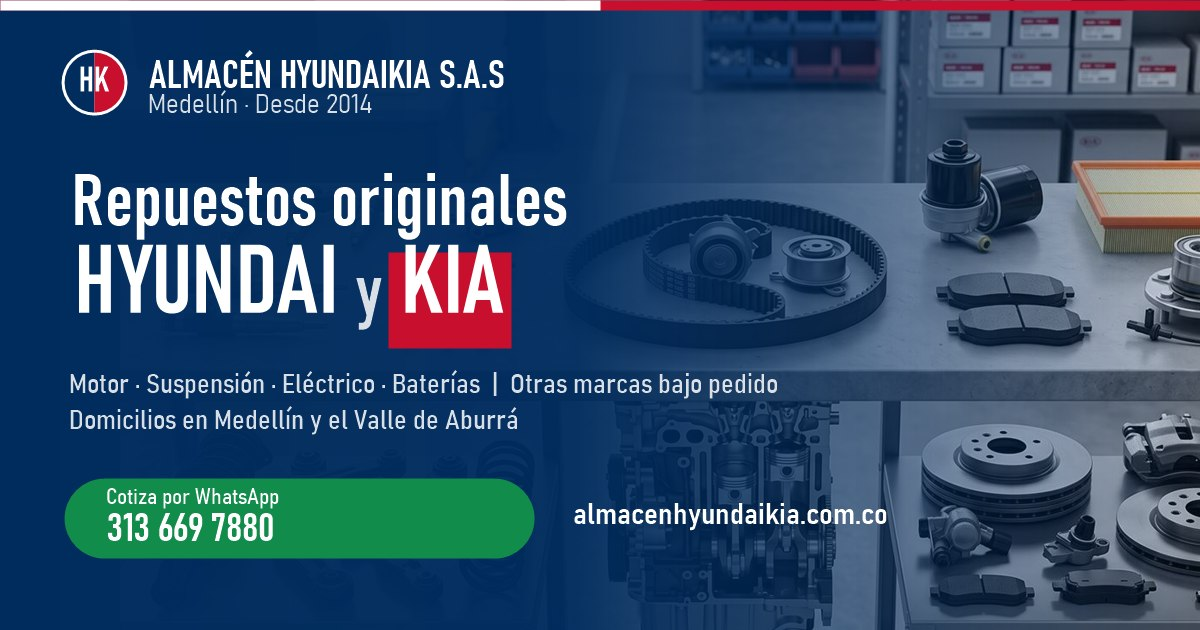
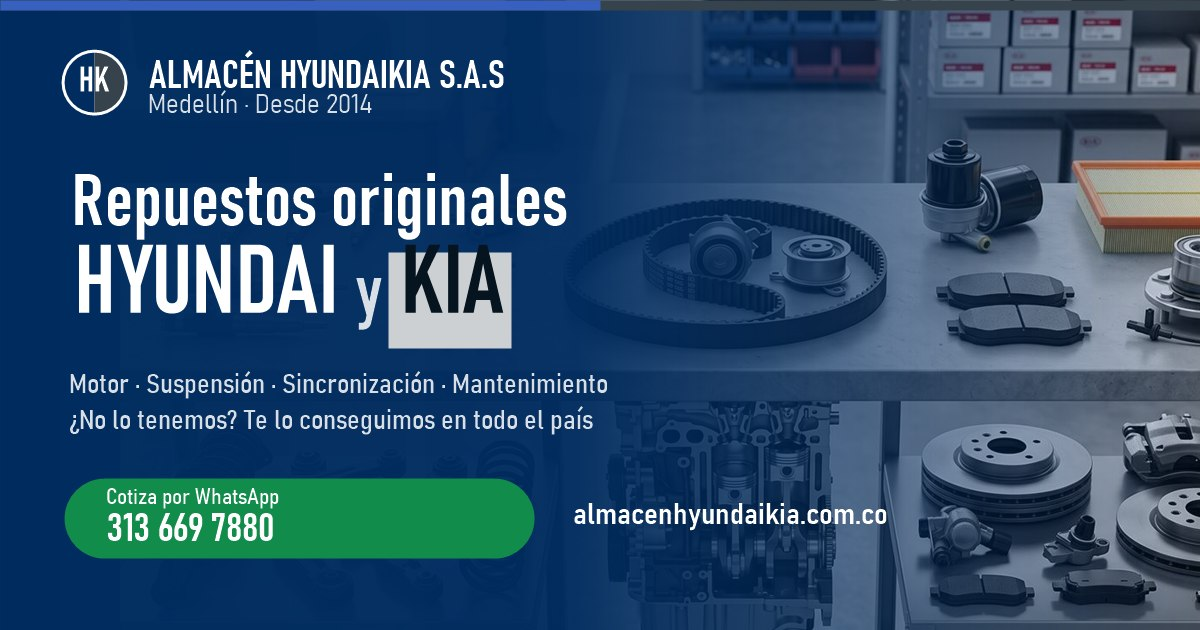
Marca y mensajes: colores oficiales, nivel nacional y crédito CoET
- Colores oficiales: Hyundai Blue #002C5F + azul eléctrico #3860BE; Kia Midnight Black #05141F y grises (#37434C, #CDD0D2) en lugar del rojo
- Portada: Motor, suspensión, sincronización y mantenimiento
- Promesa "¿No lo tenemos? Te lo conseguimos en todo el país" en portada, franja CTA, FAQ (+ schema), description y llms.txt
- Pie de página: sitio desarrollado por CoET S.A.S con enlace a coet.co
- Imagen para redes, favicon e ícono de iPhone con los colores nuevos

Changed region(s): [[0.0617, 0.3921, 0.6475, 0.6937], [0.0, 0.0, 1.0, 0.0302], [0.0617, 0.0905, 0.1233, 0.181]]

diff --git a/index.html b/index.html
@@ -8,10 +8,10 @@
 <meta http-equiv="Content-Security-Policy" content="default-src 'self'; script-src 'self' 'unsafe-inline' 'wasm-unsafe-eval' https://cdn.jsdelivr.net https://www.googletagmanager.com; worker-src 'self' blob: https://cdn.jsdelivr.net; connect-src 'self' blob: data: https://cdn.jsdelivr.net https://*.google-analytics.com https://*.analytics.google.com https://www.googletagmanager.com; img-src 'self' data: blob: https://*.google-analytics.com https://www.googletagmanager.com; style-src 'self' 'unsafe-inline' https://fonts.googleapis.com; font-src https://fonts.gstatic.com; frame-src https://maps.google.com https://www.google.com; object-src 'none'; base-uri 'self'; form-action 'self'; upgrade-insecure-requests">
 <meta name="referrer" content="strict-origin-when-cross-origin">
 <title>Repuestos Hyundai y Kia en Medellín | Almacén HyundaiKia S.A.S</title>
-<meta name="description" content="Repuestos originales Hyundai y Kia en Medellín (y otras marcas): kits de sincronización, correas, bujías, amortiguadores, bocinas, luces, exploradoras, espejos y baterías. Av. Palacé, La Candelaria. Domicilios. Cotiza por WhatsApp 313 669 7880.">
+<meta name="description" content="Repuestos originales Hyundai y Kia en Medellín (y otras marcas): motor, suspensión, sincronización y mantenimiento. Si no lo tenemos, te lo conseguimos en todo el país. Av. Palacé, La Candelaria. Domicilios. Cotiza por WhatsApp 313 669 7880.">
 <link rel="canonical" href="https://almacenhyundaikia.com.co/">
 <meta name="robots" content="index, follow, max-image-preview:large">
-<meta name="theme-color" content="#002c5e">
+<meta name="theme-color" content="#002c5f">
 <link rel="icon" href="favicon.svg" type="image/svg+xml">
 <link rel="apple-touch-icon" href="img/apple-touch-icon.png">
 
@@ -125,6 +125,7 @@
     { "@type": "Question", "name": "¿Cómo cotizo un repuesto?", "acceptedAnswer": { "@type": "Answer", "text": "Por WhatsApp al 313 669 7880: envíanos la marca, la línea, el año del modelo y, si lo tienes, el VIN o número de chasis de la tarjeta de propiedad. Te confirmamos disponibilidad y precio." } },
     { "@type": "Question", "name": "¿Hacen domicilios?", "acceptedAnswer": { "@type": "Answer", "text": "Sí, despachamos a talleres y casas en Medellín y todo el Valle de Aburrá: Envigado, Itagüí, Sabaneta, Bello, La Estrella y Caldas." } },
     { "@type": "Question", "name": "¿Venden repuestos para otras marcas?", "acceptedAnswer": { "@type": "Answer", "text": "Sí. Nuestra especialidad es Hyundai y Kia, pero conseguimos repuestos para otras marcas. Escríbenos la referencia o el modelo de tu carro." } },
+    { "@type": "Question", "name": "¿Qué pasa si no tienen el repuesto que necesito?", "acceptedAnswer": { "@type": "Answer", "text": "Te lo conseguimos. Con nuestra red de proveedores a nivel nacional buscamos la pieza exacta para tu vehículo y te confirmamos precio y tiempo de entrega por WhatsApp." } },
     { "@type": "Question", "name": "¿Cuál es el horario de atención?", "acceptedAnswer": { "@type": "Answer", "text": "Lunes a viernes de 8:00 a.m. a 6:00 p.m. y sábados de 8:00 a.m. a 2:00 p.m." } }
   ]
 }
@@ -140,10 +141,15 @@
     --border:#e3e7ec;
     --border-strong:#c9d0d9;
 
-    /* Brand accents — Hyundai blue (fabricante) + Kia red (fabricante) */
-    --blue:#002c5e;
+    /* Colores oficiales de las marcas (hyundaicolombia.co / kia.com.co):
+       Hyundai Blue #002C5F y azul eléctrico #3860BE · Kia Midnight Black #05141F y grises #37434C / #CDD0D2 */
+    --blue:#002c5f;
+    --electric:#3860be;
     --blue-soft:#eef2f8;
-    --red:#c8102e;
+    --kia:#05141f;
+    --kia-gray:#37434c;
+    --kia-silver:#cdd0d2;
+    --danger:#c8102e;
     --wa:#25d366;
     --wa-dark:#128c4b;
 
@@ -169,13 +175,13 @@
   svg{ display:block; }
   .wrap{ max-width:1120px; margin:0 auto; padding-inline:clamp(1rem,4vw,2rem); }
   section{ padding-block:clamp(2rem,5vw,3.25rem); }
-  .c-blue{ color:var(--blue); }
-  .c-red{ color:var(--red); }
+  .c-blue{ color:var(--electric); }
+  .c-kia{ color:var(--kia-gray); }
 
   .eyebrow{ display:inline-flex; align-items:center; gap:0.55rem; font-family:"IBM Plex Mono",monospace; font-size:0.72rem; letter-spacing:0.12em; text-transform:uppercase; color:var(--blue); }
   .brand-dash{ display:flex; width:24px; height:4px; border-radius:2px; overflow:hidden; }
-  .brand-dash span{ flex:1; background:var(--blue); }
-  .brand-dash span + span{ background:var(--red); }
+  .brand-dash span{ flex:1; background:var(--electric); }
+  .brand-dash span + span{ background:var(--kia-gray); }
 
   /* ---------- Botones ---------- */
   .btn{ display:inline-flex; align-items:center; justify-content:center; gap:0.5rem; font-family:"Barlow Condensed",sans-serif; font-weight:600; font-size:1.05rem; letter-spacing:0.01em; text-decoration:none; cursor:pointer; border:1px solid transparent; padding:0.72rem 1.3rem; border-radius:6px; transition:background 0.15s ease, border-color 0.15s ease, color 0.15s ease, transform 0.15s ease; white-space:nowrap; }
@@ -231,7 +237,7 @@
   }
 
   /* ---------- Cotizador (en el hero) ---------- */
-  .finder-card{ background:#fff; border:1px solid var(--border); border-top:4px solid var(--red); border-radius:12px; padding:clamp(1.25rem,3vw,1.75rem); box-shadow:var(--shadow); }
+  .finder-card{ background:#fff; border:1px solid var(--border); border-top:4px solid var(--electric); border-radius:12px; padding:clamp(1.25rem,3vw,1.75rem); box-shadow:var(--shadow); }
   .finder-card h2{ font-size:clamp(1.45rem,2.6vw,1.8rem); }
   .finder-card > p{ margin-top:0.35rem; color:var(--text-soft); font-size:0.92rem; }
   .finder-form{ margin-top:1.1rem; display:grid; grid-template-columns:1fr 1fr; gap:0.8rem; }
@@ -255,7 +261,7 @@
   .scan-status{ margin-top:0.55rem; font-size:0.78rem; color:var(--text-soft); text-align:center; }
   .scan-status.is-busy{ color:var(--blue); font-weight:600; }
   .scan-status.is-ok{ color:var(--wa-dark); font-weight:600; }
-  .scan-status.is-error{ color:var(--red); font-weight:600; }
+  .scan-status.is-error{ color:var(--danger); font-weight:600; }
   .scan-progress{ height:4px; margin-top:0.5rem; border-radius:2px; background:var(--border); overflow:hidden; }
   .scan-progress span{ display:block; height:100%; width:0; background:var(--blue); transition:width 0.2s ease; }
 
@@ -329,6 +335,8 @@
   footer .wrap{ display:flex; flex-wrap:wrap; justify-content:space-between; gap:0.5rem 2rem; padding-block:1.4rem; }
   footer a{ color:var(--text-soft); }
   footer strong{ color:var(--text); }
+  footer .credito{ flex-basis:100%; padding-top:0.6rem; border-top:1px solid var(--border); font-size:0.8rem; text-align:center; }
+  footer .credito a{ color:var(--electric); font-weight:600; text-decoration:none; }
 
   /* ---------- Acciones fijas: flotante (escritorio) y barra inferior (móvil) ---------- */
   .wa-float{ position:fixed; right:1.5rem; bottom:1.5rem; z-index:50; display:flex; align-items:center; gap:0.55rem; padding:0.8rem 1.15rem 0.8rem 0.95rem; border-radius:999px; background:var(--wa); color:#fff; text-decoration:none; font-family:"Barlow Condensed",sans-serif; font-weight:600; font-size:1.05rem; box-shadow:0 6px 18px rgba(18,24,31,0.22); transition:transform 0.15s ease; }
@@ -359,8 +367,8 @@
 <header class="site-header">
   <div class="wrap">
     <a class="brand" href="#top" aria-label="Almacén HyundaiKia S.A.S — inicio">
-      <svg class="brand-badge" viewBox="0 0 32 32" aria-hidden="true"><path d="M16 1a15 15 0 0 0 0 30V1Z" fill="var(--blue)"/><path d="M16 1a15 15 0 0 1 0 30V1Z" fill="var(--red)"/><text x="16" y="20.5" text-anchor="middle" font-family="Barlow Condensed, sans-serif" font-size="12" font-weight="700" fill="#fff">HK</text></svg>
-      <span class="brand-name">ALMACÉN <span class="c-blue">HYUNDAI</span><span class="c-red">KIA</span><small>Repuestos originales · Medellín</small></span>
+      <svg class="brand-badge" viewBox="0 0 32 32" aria-hidden="true"><path d="M16 1a15 15 0 0 0 0 30V1Z" fill="var(--blue)"/><path d="M16 1a15 15 0 0 1 0 30V1Z" fill="var(--kia-gray)"/><text x="16" y="20.5" text-anchor="middle" font-family="Barlow Condensed, sans-serif" font-size="12" font-weight="700" fill="#fff">HK</text></svg>
+      <span class="brand-name">ALMACÉN <span class="c-blue">HYUNDAI</span><span class="c-kia">KIA</span><small>Repuestos originales · Medellín</small></span>
     </a>
     <nav class="nav" aria-label="Principal">
       <a class="nav-link" href="#repuestos">Repuestos</a>
@@ -383,8 +391,8 @@
           <img src="img/logo-kia.png" alt="Kia" height="26">
           <span class="plus">+ otras marcas</span>
         </div>
-        <h1>Repuestos originales para tu <span class="c-blue">HYUNDAI</span> y <span class="c-red">KIA</span> en Medellín</h1>
-        <p class="hero-sub">Motor y sincronización, suspensión, eléctrico, iluminación y baterías. Te confirmamos disponibilidad y precio por WhatsApp en minutos, y te lo llevamos a domicilio.</p>
+        <h1>Repuestos originales para tu <span class="c-blue">HYUNDAI</span> y <span class="c-kia">KIA</span> en Medellín</h1>
+        <p class="hero-sub">Motor, suspensión, sincronización y mantenimiento. <strong>¿No lo tenemos en el almacén? Te lo conseguimos en todo el país.</strong> Cotiza por WhatsApp en minutos y te lo llevamos a domicilio.</p>
         <div class="hero-actions">
           <a class="btn btn-wa" href="https://wa.me/573136697880?text=Hola%2C%20quiero%20cotizar%20un%20repuesto" target="_blank" rel="noopener" data-wa="hero">
             <svg viewBox="0 0 24 24" fill="currentColor" aria-hidden="true"><use href="#i-wa"/></svg>
@@ -399,6 +407,7 @@
           <li><a href="https://www.google.com/maps?cid=13270207349620666020" target="_blank" rel="noopener"><span class="stars">★★★★★</span> 4,5 en Google</a></li>
           <li><svg viewBox="0 0 24 24" fill="none" stroke="currentColor" stroke-width="2" stroke-linecap="round" stroke-linejoin="round" aria-hidden="true"><use href="#i-shield"/></svg> Más de 12 años</li>
           <li><svg viewBox="0 0 24 24" fill="none" stroke="currentColor" stroke-width="2" stroke-linecap="round" stroke-linejoin="round" aria-hidden="true"><use href="#i-truck"/></svg> Domicilios Valle de Aburrá</li>
+          <li><svg viewBox="0 0 24 24" fill="none" stroke="currentColor" stroke-width="2" stroke-linecap="round" stroke-linejoin="round" aria-hidden="true"><circle cx="11" cy="11" r="7"/><path d="m20 20-3.5-3.5"/></svg> Lo conseguimos en todo Colombia</li>
         </ul>
       </div>
 
@@ -575,7 +584,7 @@
   <section class="trust-band">
     <div class="wrap">
       <div class="years">
-        <b>12<span class="c-red" style="font:inherit">+</span></b>
+        <b>12<span style="font:inherit;color:var(--kia-silver)">+</span></b>
         <span>Años de experiencia<small>Desde el 10 de enero de 2014</small></span>
       </div>
       <ul class="adv">
@@ -590,13 +599,13 @@
   <section class="cta-strip">
     <div class="wrap">
       <div>
-        <h2>¿Tu carro es de otra marca o no ves tu repuesto?</h2>
-        <p>Envíanos la referencia, la marca y el modelo. Te lo conseguimos.</p>
+        <h2>¿No tenemos tu repuesto? Te lo conseguimos en todo el país</h2>
+        <p>Con nuestra red de proveedores a nivel nacional buscamos la pieza exacta para tu Hyundai, Kia o carro de otra marca. Envíanos la referencia, la marca y el modelo.</p>
       </div>
       <div class="actions">
-        <a class="btn btn-wa" href="https://wa.me/573136697880?text=Hola%2C%20necesito%20un%20repuesto%20para%20un%20carro%20de%20otra%20marca" target="_blank" rel="noopener" data-wa="otra-marca">
+        <a class="btn btn-wa" href="https://wa.me/573136697880?text=Hola%2C%20necesito%20que%20me%20ayuden%20a%20conseguir%20un%20repuesto" target="_blank" rel="noopener" data-wa="conseguir-repuesto">
           <svg viewBox="0 0 24 24" fill="currentColor" aria-hidden="true"><use href="#i-wa"/></svg>
-          Escribir por WhatsApp
+          Buscar mi repuesto
         </a>
         <a class="btn btn-outline" href="tel:+576044441961">Llamar al PBX</a>
       </div>
@@ -679,6 +688,10 @@
           <p>Sí. Nuestra especialidad es Hyundai y Kia, pero conseguimos repuestos para otras marcas. Escríbenos la referencia o el modelo de tu carro.</p>
         </details>
         <details>
+          <summary>¿Qué pasa si no tienen el repuesto que necesito?</summary>
+          <p>Te lo conseguimos. Con nuestra red de proveedores a nivel nacional buscamos la pieza exacta para tu vehículo y te confirmamos precio y tiempo de entrega por WhatsApp.</p>
+        </details>
+        <details>
           <summary>¿Cuál es el horario de atención?</summary>
           <p>Lunes a viernes de 8:00 a.m. a 6:00 p.m. y sábados de 8:00 a.m. a 2:00 p.m.</p>
         </details>
@@ -691,6 +704,7 @@
   <div class="wrap">
     <span><strong>ALMACÉN HYUNDAIKIA S.A.S</strong> · NIT 900.690.717-6 · Repuestos Hyundai, Kia y otras marcas en Medellín desde 2014</span>
     <span>© 2026 · <a href="politica-de-datos.html">Política de tratamiento de datos</a> · <a href="https://www.google.com/maps?cid=13270207349620666020" target="_blank" rel="noopener">Google Maps</a></span>
+    <span class="credito">Sitio web desarrollado por <a href="https://www.coet.co/" target="_blank" rel="noopener">CoET S.A.S</a> · Conexiones Empresariales &amp; Tecnológicas</span>
   </div>
 </footer>
 

diff --git a/politica-de-datos.html b/politica-de-datos.html
@@ -8,13 +8,13 @@
 <title>Política de tratamiento de datos personales | Almacén HyundaiKia S.A.S</title>
 <meta name="description" content="Política de tratamiento de datos personales y aviso de privacidad de Almacén HyundaiKia S.A.S (NIT 900.690.717-6), conforme a la Ley 1581 de 2012 y el Decreto 1377 de 2013.">
 <link rel="canonical" href="https://almacenhyundaikia.com.co/politica-de-datos.html">
-<meta name="theme-color" content="#002c5e">
+<meta name="theme-color" content="#002c5f">
 <link rel="icon" href="favicon.svg" type="image/svg+xml">
 <link rel="preconnect" href="https://fonts.googleapis.com">
 <link rel="preconnect" href="https://fonts.gstatic.com" crossorigin>
 <link href="https://fonts.googleapis.com/css2?family=Barlow+Condensed:wght@600;700&family=Manrope:wght@400;600;700&display=swap" rel="stylesheet">
 <style>
-  :root{ --text:#12181f; --soft:#5c6673; --border:#e3e7ec; --blue:#002c5e; --red:#c8102e; --bg-soft:#f4f6f9; }
+  :root{ --text:#12181f; --soft:#5c6673; --border:#e3e7ec; --blue:#002c5f; --electric:#3860be; --bg-soft:#f4f6f9; }
   *,*::before,*::after{ box-sizing:border-box; }
   body{ margin:0; background:#fff; color:var(--text); font-family:"Manrope",-apple-system,"Segoe UI",sans-serif; font-size:16px; line-height:1.65; }
   a{ color:var(--blue); }
@@ -29,7 +29,7 @@
   h2{ font-size:1.35rem; margin:2rem 0 0.5rem; color:var(--blue); }
   p, li{ color:#2a333d; }
   .meta{ color:var(--soft); font-size:0.9rem; }
-  .aviso{ background:var(--bg-soft); border-left:4px solid var(--red); border-radius:8px; padding:1rem 1.2rem; margin:1.5rem 0; }
+  .aviso{ background:var(--bg-soft); border-left:4px solid var(--electric); border-radius:8px; padding:1rem 1.2rem; margin:1.5rem 0; }
   .aviso h2{ margin-top:0; }
   ul{ padding-left:1.2rem; }
   footer{ border-top:1px solid var(--border); background:var(--bg-soft); color:var(--soft); font-size:0.85rem; }
@@ -119,7 +119,7 @@
 </main>
 
 <footer>
-  <div class="wrap">ALMACEN HYUNDAIKIA S.A.S · NIT 900.690.717-6 · Av. Palacé #38-115, Medellín</div>
+  <div class="wrap">ALMACEN HYUNDAIKIA S.A.S · NIT 900.690.717-6 · Av. Palacé #38-115, Medellín<br>Sitio web desarrollado por <a href="https://www.coet.co/" target="_blank" rel="noopener">CoET S.A.S</a></div>
 </footer>
 
 <script>
